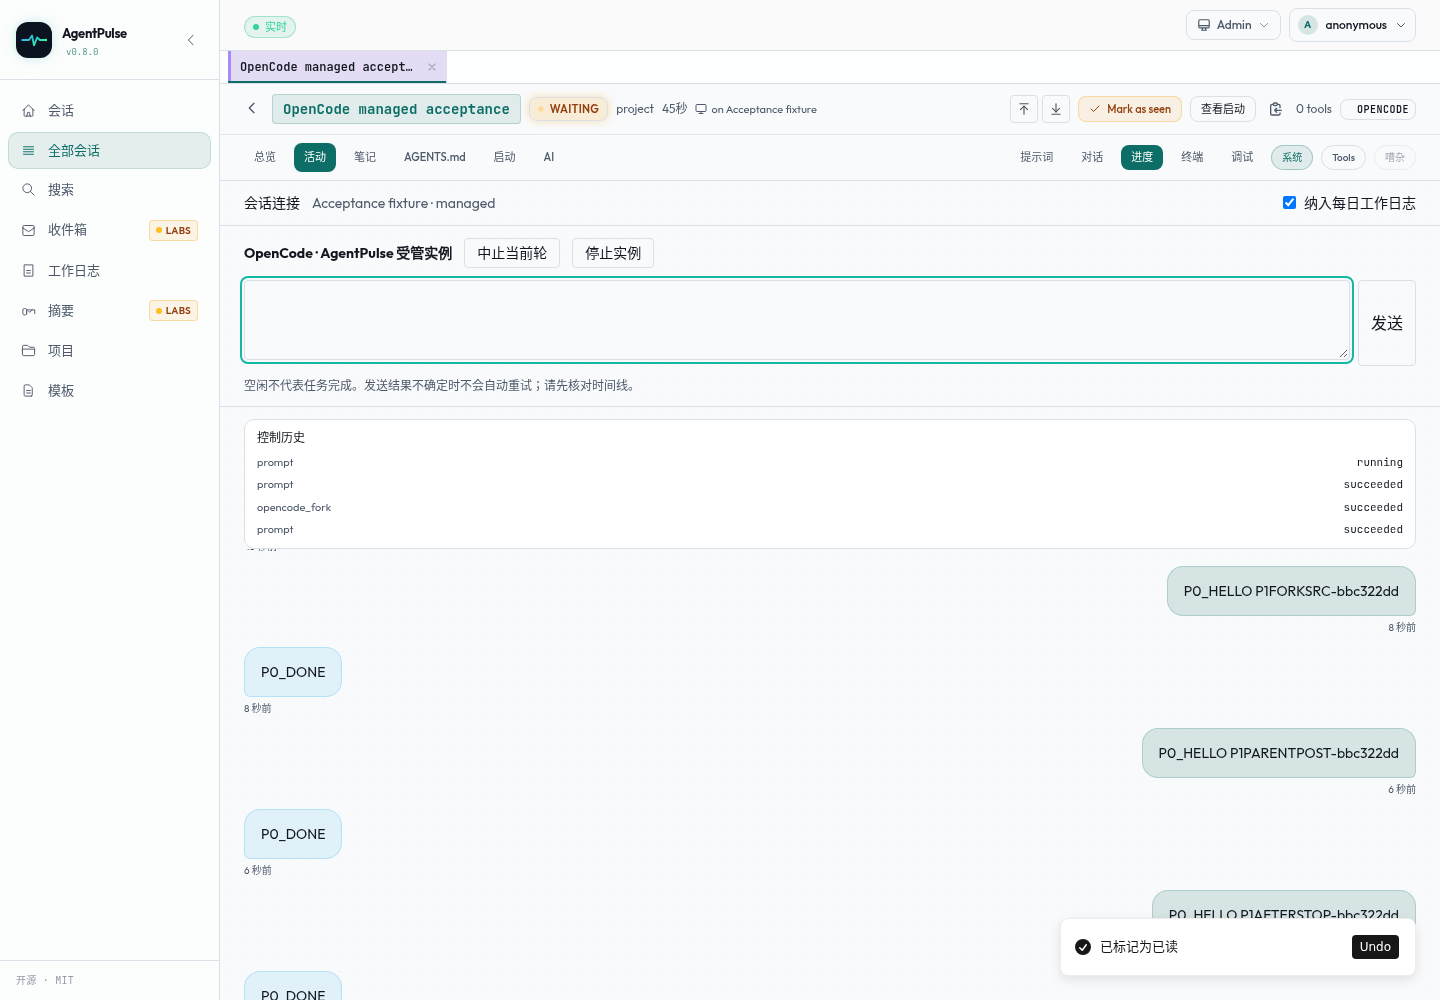
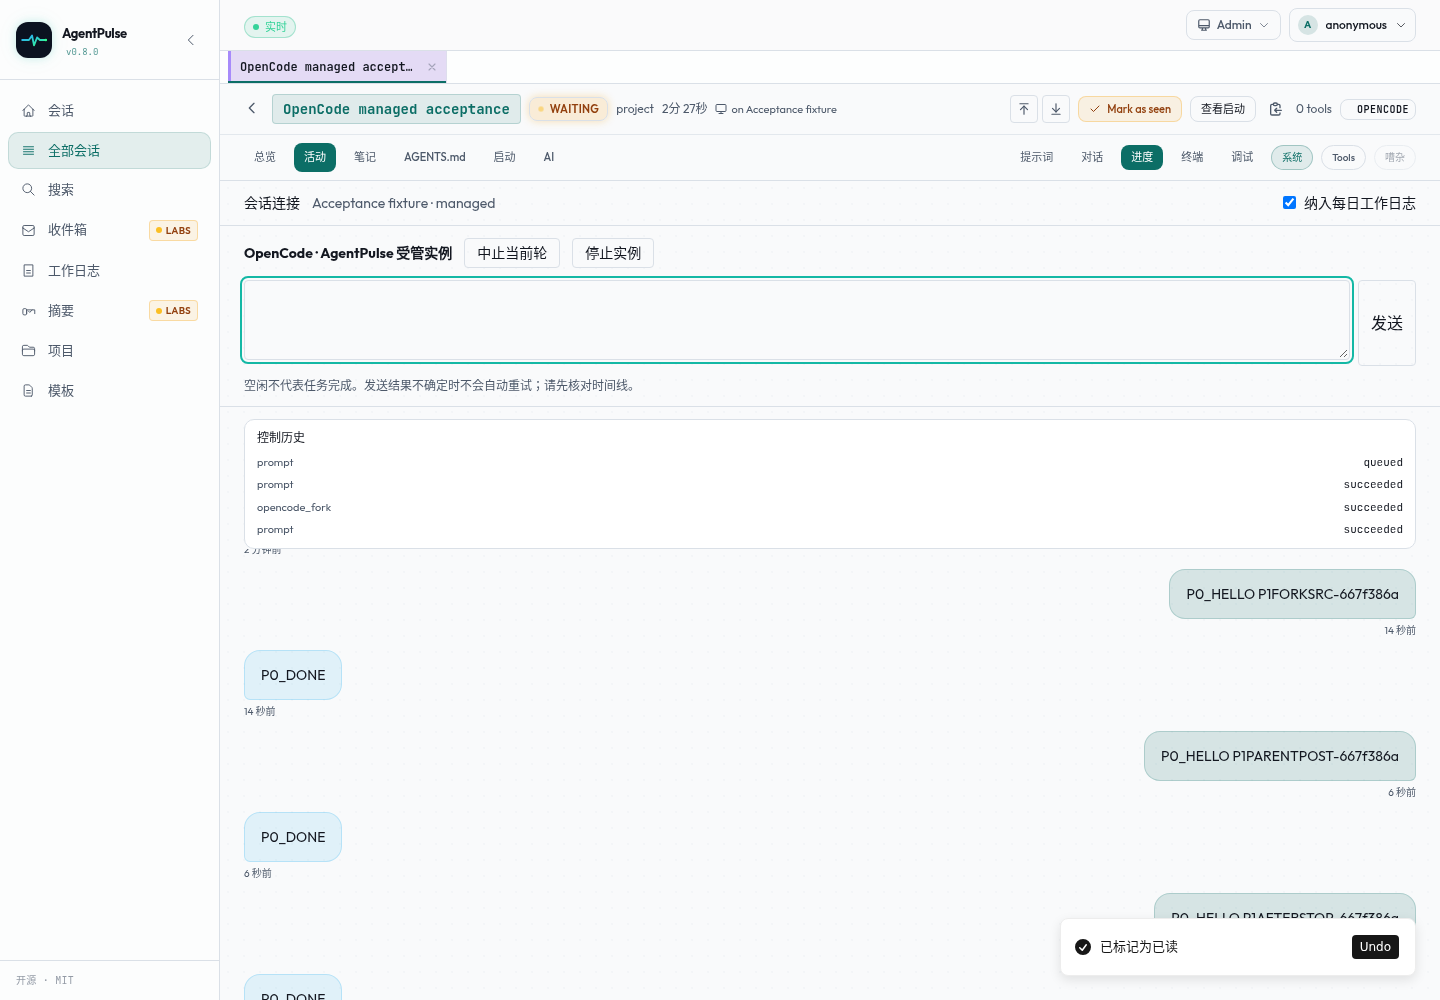
test(p1): fork slice now passes 12/12 on real child ingestion
Re-ran against the trusted-child ingestion (6071d25), with the assertion
order codex required: prove the child's OWN causal terminal FIRST, then
isolation on a NON-EMPTY child.

PASS: pre-fork marker inherited by the child; child turn has its own causal
step-finish=stop; parent post-fork turn absent from the child; child turn
absent from the parent; child STOP action succeeded; child binding reached
protected stopped (epoch=1) while the parent binding stayed active (epoch=0);
parent still completed a new turn after the child stop.
Evidence refreshed. Unit coverage from 6071d25: 11/11 (trusted enumeration,
parent deletion, generation/host isolation, copyOf+parent time, duplicate
snapshots, two branches, UNKNOWN child never auto-bound).

diff --git a/scripts/opencode-p0/p1-fork-browser.ts b/scripts/opencode-p0/p1-fork-browser.ts
@@ -60,11 +60,7 @@ try {
 		if (!inherited) await child.waitForTimeout(500);
 	}
 	check(inherited, "child INHERITS the pre-fork marker (copyOf history)");
-	// Parent post-fork turn must NOT appear in the child; child turn must NOT appear in the parent.
-	const parentPost = `P1PARENTPOST-${tag}`;
-	check(await sendAndWait(page, `P0_HELLO ${parentPost}`), "parent post-fork turn completed");
-	await child.waitForTimeout(1000);
-	check(!(await childText()).includes(parentPost), "child does NOT receive the parent's post-fork turn");
+	// FIRST prove the child has a real CAUSAL terminal of its own turn, THEN test isolation.
 	const childTurn = `P1CHILD-${tag}`;
 	await ta(child).fill(`P0_HELLO ${childTurn}`);
 	await ta(child).press("Enter");
@@ -73,12 +69,25 @@ try {
 		childDone = Boolean(turnTerminal(rows(childId), childTurn));
 		if (!childDone) await child.waitForTimeout(500);
 	}
-	check(childDone, "child turn completed on the same instance");
+	check(childDone, "child has its OWN causal terminal for the child turn");
+	const parentPost = `P1PARENTPOST-${tag}`;
+	check(await sendAndWait(page, `P0_HELLO ${parentPost}`), "parent post-fork turn completed");
+	await child.waitForTimeout(1000);
+	check(!(await childText()).includes(parentPost), "child does NOT receive the parent's post-fork turn (non-empty child)");
 	await page.waitForTimeout(1000);
 	check(!(await page.locator("main").innerText()).includes(childTurn), "parent does NOT receive the child's turn");
-	// Child stop boundary: abort-only; the parent keeps working.
+	// Child stop: the STOP action must TRULY succeed and the child binding must be
+	// protected-stopped; the parent identity/turn must be untouched.
 	await child.getByRole("button", { name: "停止实例" }).click();
 	await child.waitForTimeout(2500);
+	const stopAction = db
+		.query("SELECT status FROM control_actions WHERE session_id = $s AND action_type = 'stop' ORDER BY rowid DESC LIMIT 1")
+		.get({ $s: childId }) as { status?: string } | null;
+	const childBinding = db.query("SELECT stop_state, stop_epoch FROM session_control_bindings WHERE session_id = $s").get({ $s: childId }) as { stop_state?: string; stop_epoch?: number } | null;
+	const parentBinding = db.query("SELECT stop_state, stop_epoch FROM session_control_bindings WHERE session_id = $s").get({ $s: AID }) as { stop_state?: string; stop_epoch?: number } | null;
+	check(stopAction?.status === "succeeded", "child STOP action succeeded", stopAction?.status ?? "none");
+	check(childBinding?.stop_state === "stopped", "child binding reached protected stopped", `stop_state=${childBinding?.stop_state} epoch=${childBinding?.stop_epoch}`);
+	check(parentBinding?.stop_state === "active" && parentBinding?.stop_epoch === 0, "parent binding identity/epoch untouched", `stop_state=${parentBinding?.stop_state} epoch=${parentBinding?.stop_epoch}`);
 	const afterStop = `P1AFTERSTOP-${tag}`;
 	check(await sendAndWait(page, `P0_HELLO ${afterStop}`), "parent still works after the CHILD stop (no shared-instance kill)");
 	await page.screenshot({ path: `${OUT}/16-fork-parent-after-child-stop.png`, fullPage: true });
